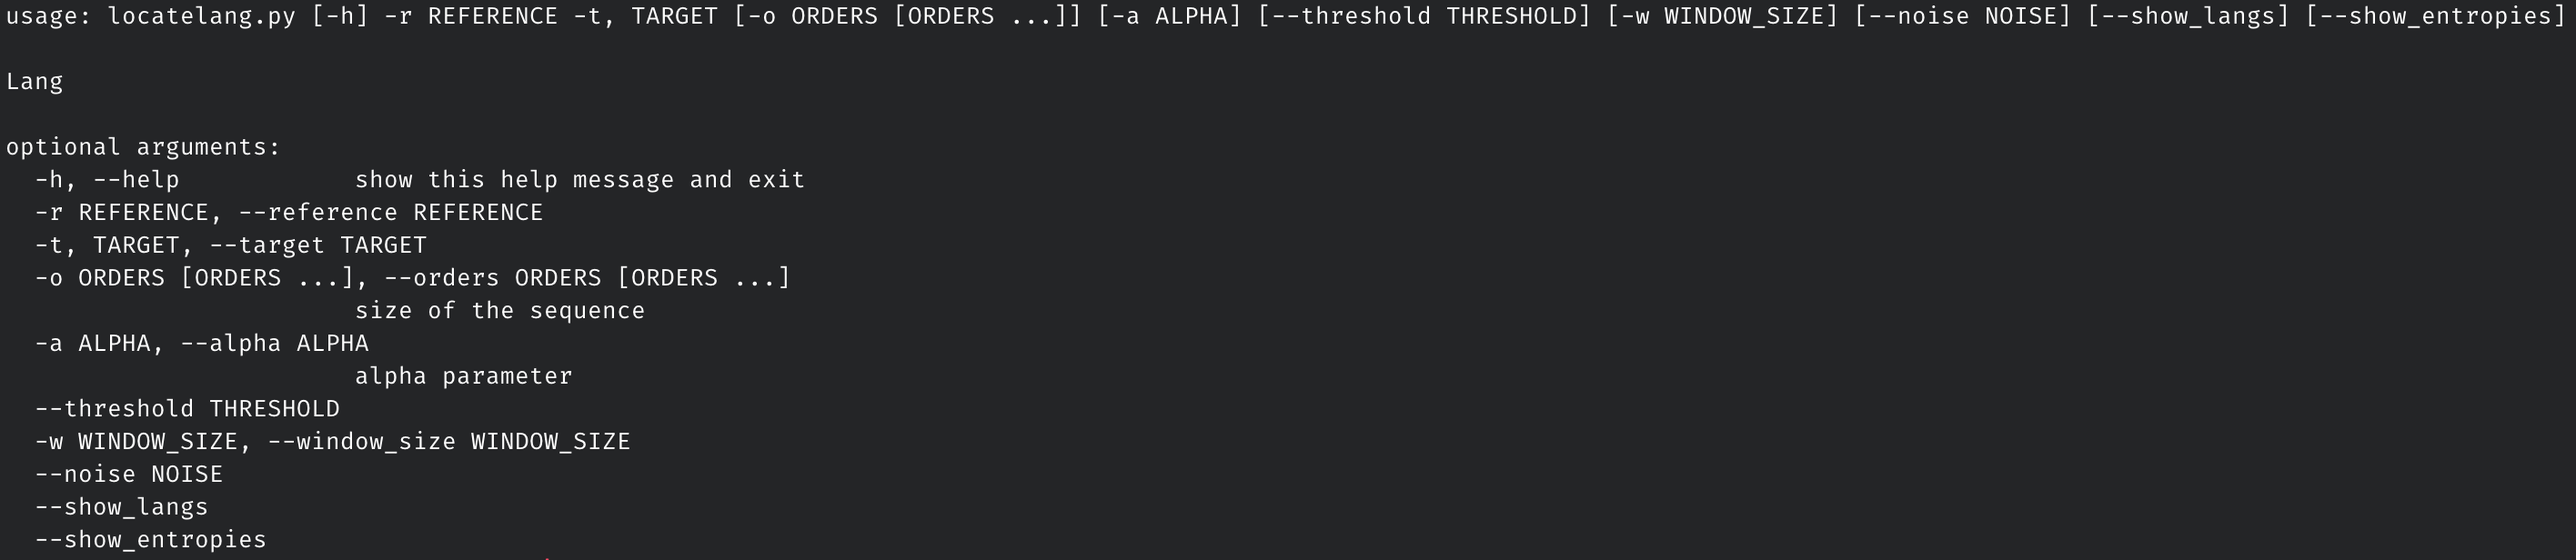
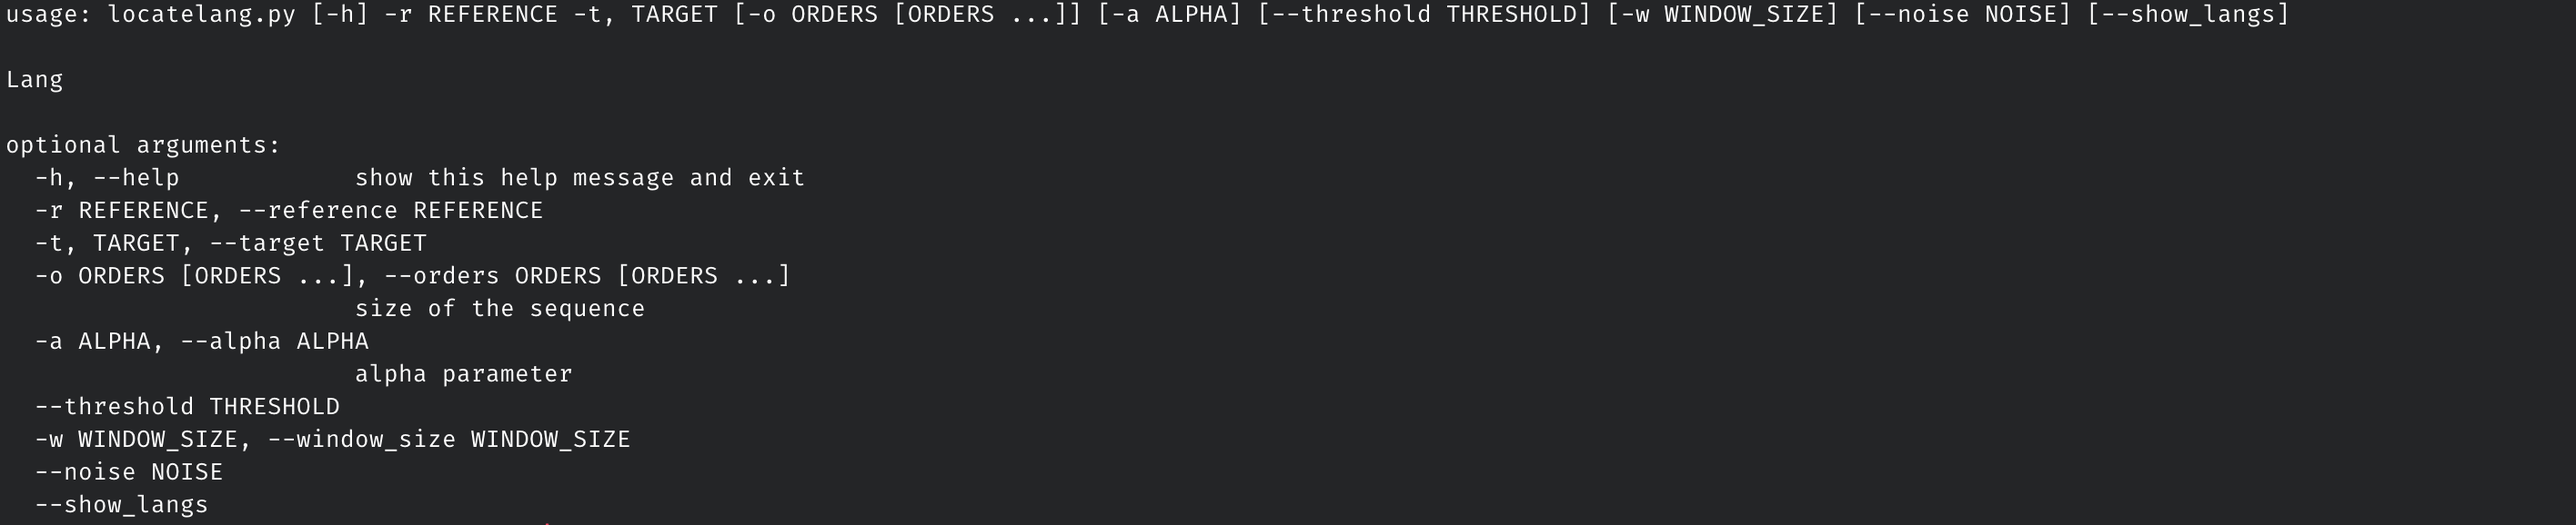
small fixes

diff --git a/src/locatelang.py b/src/locatelang.py
@@ -103,7 +103,6 @@ if __name__ == "__main__":
     parser.add_argument("-w","--window_size", type=int, default=24)
     parser.add_argument("--noise", type=float, default=1)
     parser.add_argument("--show_langs", action="store_true")
-    parser.add_argument("--show_entropies", action="store_true")
     
 
     args = vars(parser.parse_args())

diff --git a/README.md b/README.md
@@ -54,7 +54,7 @@ Usage example:
 
 <img src="img/locatelang.png"  width="100%">
 
-Reference and target options are required. You can also change the `orders` (k values), `alpha`, `threshold` (can be either 'mean', 'max', 'entropy' or a float value), `window size` and `noise reduction`. `show_langs` and `show_entropies` are optional parameters to plot the graphics. 
+Reference and target options are required. You can also change the `orders` (k values), `alpha`, `threshold` (can be either 'mean', 'max', 'entropy' or a float value), `window size` and `noise reduction`. `show_langs` is an optional parameter to plot the graphic. 
 
 
 
